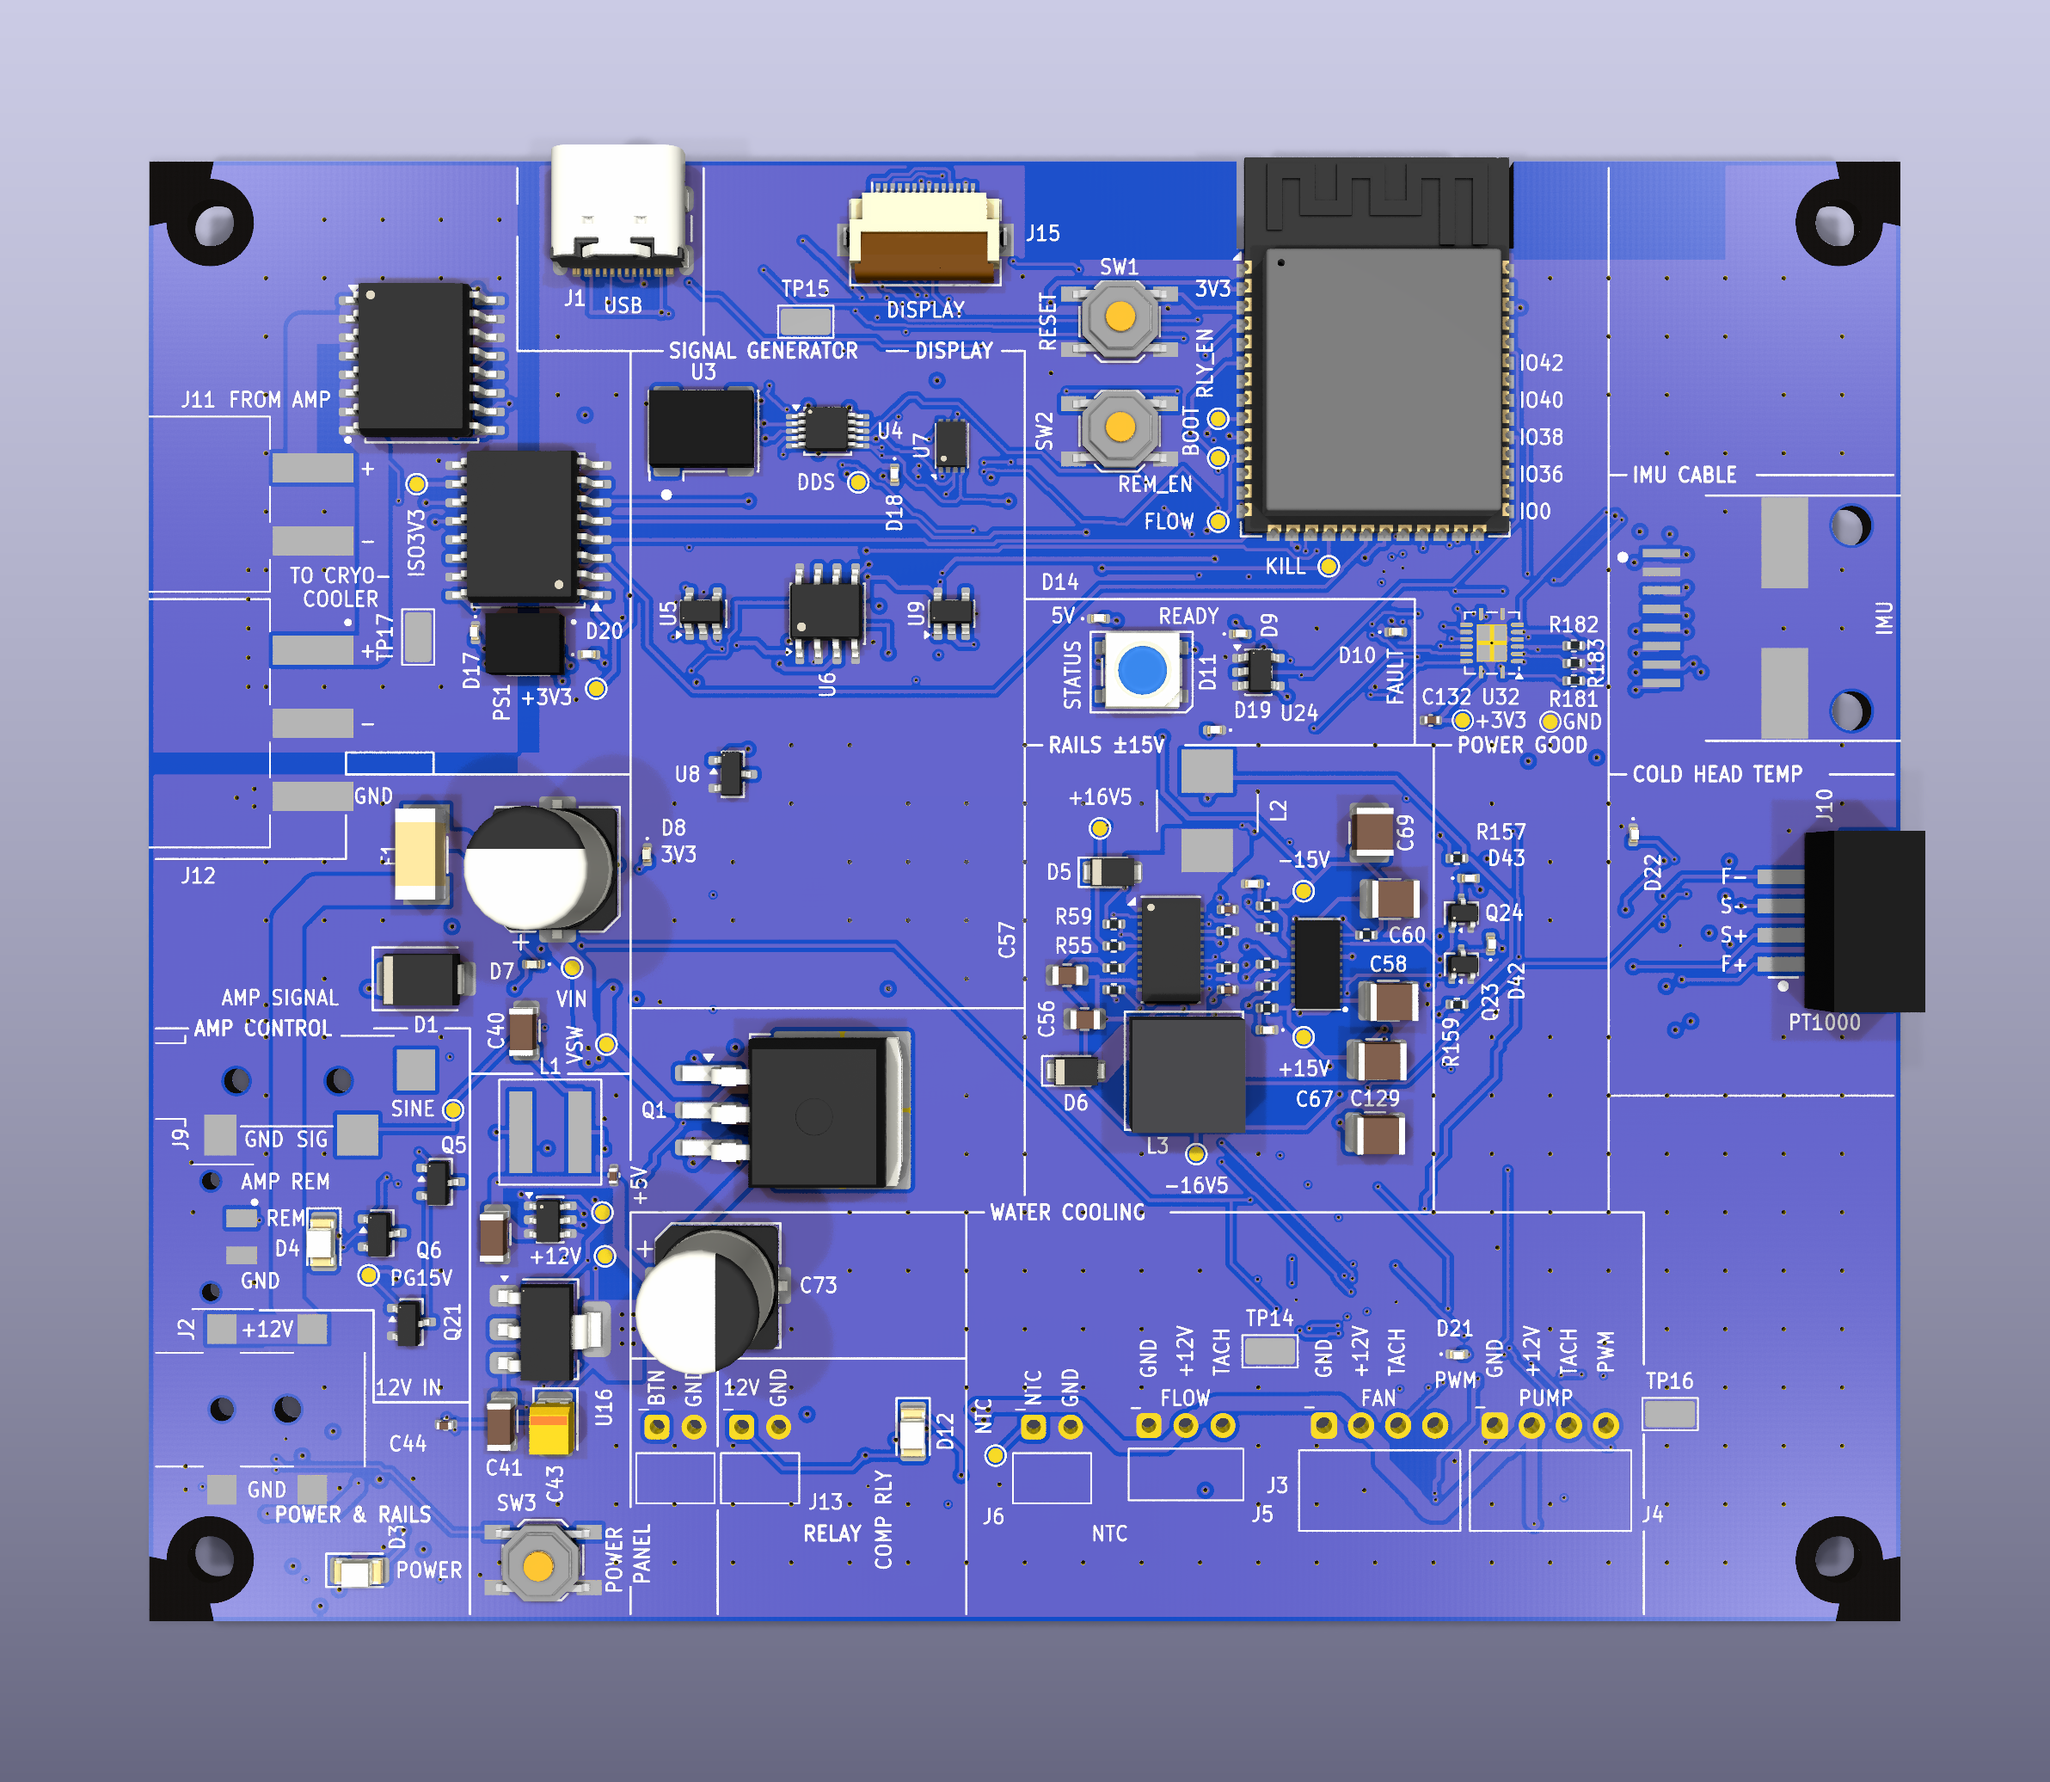
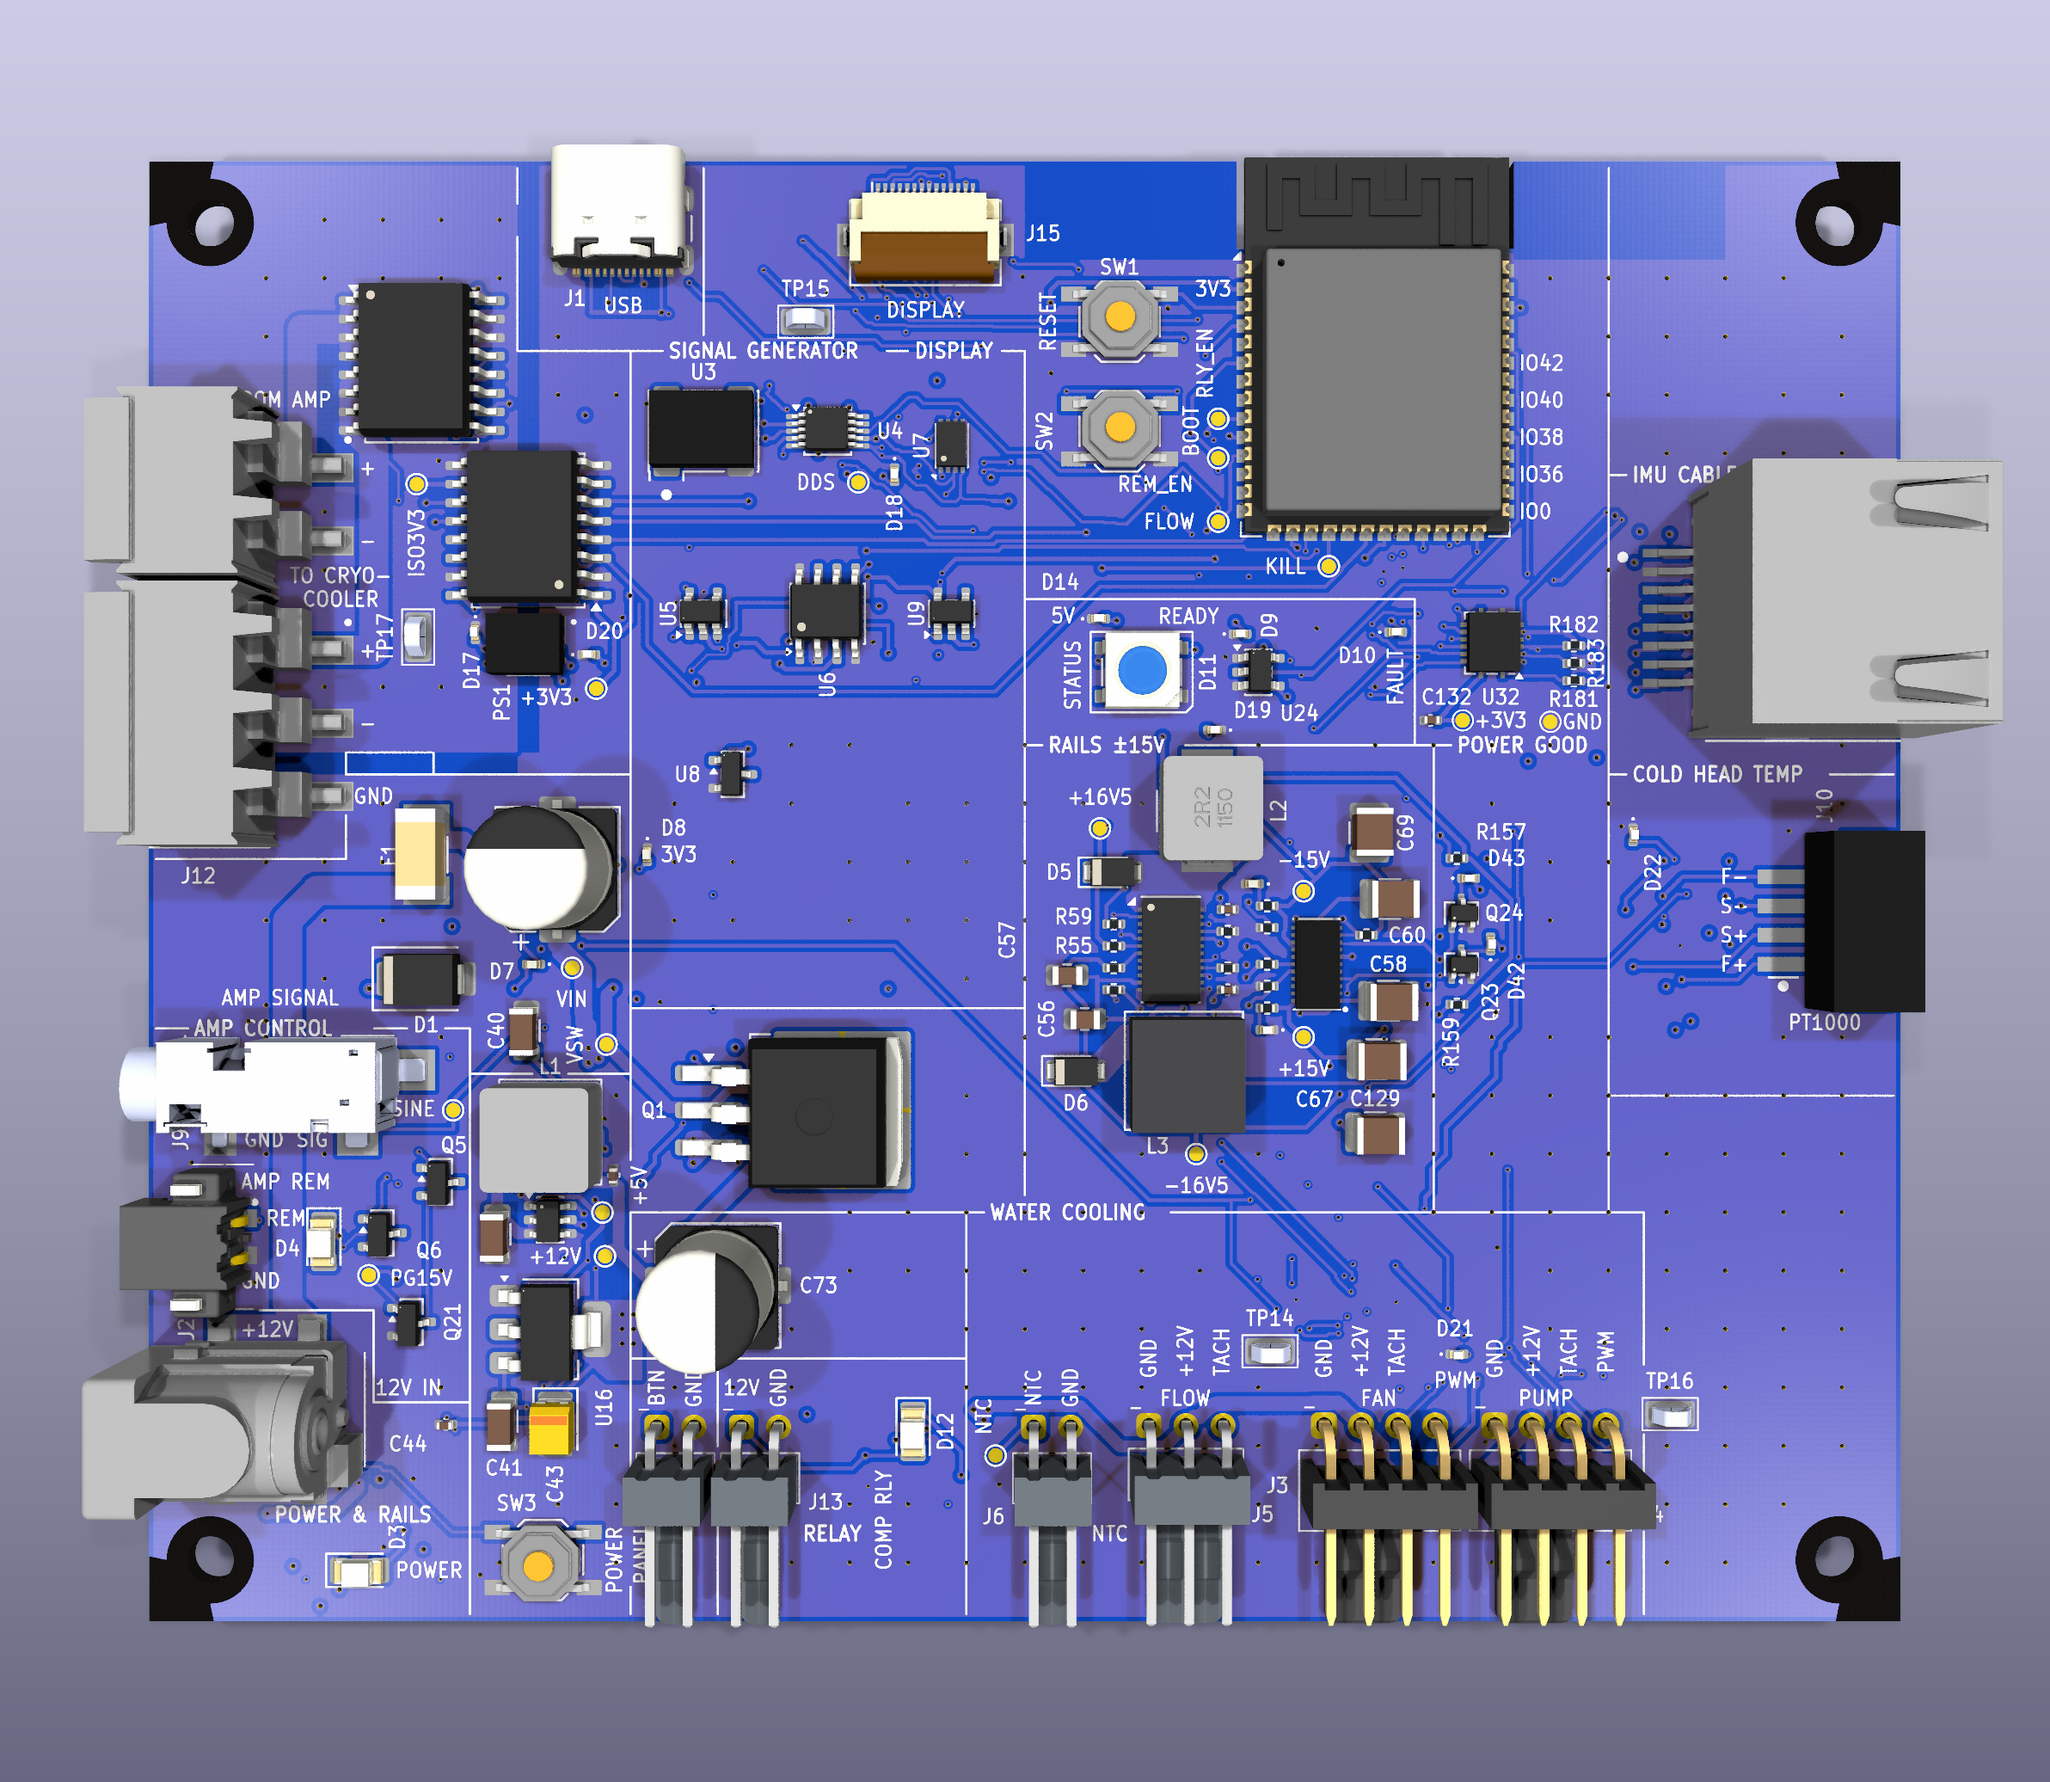
UCS 145-125: TI 3D models for U32 and U27, re-render board
Use TI's RGY0016A and RGV0016B STEP models through LOCAL_STEP_MODELS, so
pipeline replays keep them. Both are gitignored like the other vendor
models. Copper and silkscreen are unchanged, so the Gerbers and board ID
stay as they are.

The new renders also restore connector bodies missing from b4a55c6's.

Also check CS_ADDR_C in verify_netlist.py and update the docs for
U32's VQFN part number, whose stock is still unchecked.

diff --git a/hardware/kicad/tools/pcbmodels.py b/hardware/kicad/tools/pcbmodels.py
@@ -167,6 +167,18 @@ ENVELOPES = {
 # RJSSE5380.step (Amphenol M-RJSSE-5380, via SnapMagic) is Y-up with the
 # pegs at x 1.52 / 14.22, z -4.13 and the contact feet at y -0.76.
 LOCAL_STEP_MODELS = {
+    # RGY0016A.step (TI, U32) and RGV0016B.step (TI, U27) are already placed:
+    # Z-up, seated at z 0, centred, pin 1 chamfer on the exposed pad at -x +y
+    'Texas_RGY_R-PVQFN-N16_EP2.05x2.55mm': (
+        'RGY0016A.step',
+        (0.0, 0.0, 0.0),
+        (0.0, 0.0, 0.0),
+    ),
+    'Texas_RGV0016A_VQFN-16-1EP_4x4mm_P0.65mm_EP2.1x2.1mm': (
+        'RGV0016B.step',
+        (0.0, 0.0, 0.0),
+        (0.0, 0.0, 0.0),
+    ),
     # fan_header_90deg.step (GrabCAD) has its board plane at z 3.175, tails
     # towards +z at y -3.655 and pin 1 at x -3.81
     'FanHeader_4P_P2.54mm_Horizontal': (

diff --git a/hardware/kicad/tools/verify_netlist.py b/hardware/kicad/tools/verify_netlist.py
@@ -21,6 +21,7 @@ EXPECTED = {
     'SPI_MISO': 40,
     'CS_ADDR_A': 3,
     'CS_ADDR_B': 44,
+    'CS_ADDR_C': 45,
     'IMU_INT1': 2,
     'IMU_INT2': 39,
     'ACS_CS': 17,

diff --git a/hardware/kicad/DESIGN_REVIEW.md b/hardware/kicad/DESIGN_REVIEW.md
@@ -117,7 +117,7 @@ the Delta DPS-2000EB datasheet for the exact figures and the PS_ON pinout (I cou
 
 The eight shared-bus chip selects now come from U32, freeing GPIO1, 5, 7 and 47. Moving them to the MCP23S08 was rejected: U25 shares the bus, so its deselect write would clock into the still-selected device (`0x40` is a valid ADS1220 WREG).
 
-* **Part:** SN74LVC138APWR (TI SCAS291), on unswitched +3V3. At 3.3 V: VIH 2 V, tpd max 6.7 ns from A/B/C and 6.5 ns from G2A, well under the GPIO write time.
+* **Part:** SN74LVC138A (TI SCAS291), on unswitched +3V3; first SN74LVC138APWR, now SN74LVC138ARGYR (see "U32 in VQFN"). At 3.3 V: VIH 2 V, tpd max 6.7 ns from A/B/C and 6.5 ns from G2A, well under the GPIO write time.
 * **Control:** A/B/C = GPIO3/44/45, G2A = GPIO8, G1 +3V3, G2B GND. R182 holds G2A high until firmware runs; R181 and R183 keep the GPIO3 and GPIO45 strap levels.
 * **Removed:** U30, R178, C127, net `DISP_CS_1V8` (the 1.8 V GPIO47 display CS problem goes away), and the now-redundant pull-ups R68, R81, R168. U31 stays for `DISP_DC`. TP41 (STATUS_RGB) was removed at the user's request, for silk room.
 * **Firmware:** chip selects are IDs 100-107, handled by strong `pinMode` / `digitalWrite` overrides in `src/spi_select.cpp`. The ceiling is `int8_t`, Adafruit BusIO's CS type.

diff --git a/hardware/HANDOFF_145.md b/hardware/HANDOFF_145.md
@@ -212,7 +212,8 @@ Branch `spi-cs-decoder`. U32 (SN74LVC138A) at (92, 33) replaces the eight CS GPI
 - **Via-in-pad:** U32 exposed pad (RGY package) and D10 pad 1. Inner traces 0.9 mm apart leave no room beside D10.
 - **+3V3 loop:** the feed to R182 and R181 runs out to x 99.6 so R183 pad 1 can reach a via at (98.71, 34.4).
 - **Silk:** hand-placed around U32; re-running `silk_fix.py` may hide those labels, so run `cs_decoder_silk.py` again afterwards.
-- **Part stock:** Digi-Key's SN74LVC138APWR listing looked stocked from cached pages. Check live before ordering.
+- **Part stock:** U32 is now SN74LVC138ARGYR, and its stock has not been checked (the earlier look at cached pages was for the TSSOP SN74LVC138APWR). Check live before ordering.
+- **U32 / U27 3D models:** TI's `RGY0016A.stp` (`dev/SN74LVC138ARGYR`) and `RGV0016B.stp` (`dev/TSC2046EIRGVT`), no licence terms in the downloads, gitignored as `lib/cryocooler.3dshapes/RGY0016A.step` and `RGV0016B.step`. Copy them there to render; without them the parts have no 3D body. Neither needs an offset or rotation.
 
 ## 12 V copper for 4 A (2026-11-05)
 
